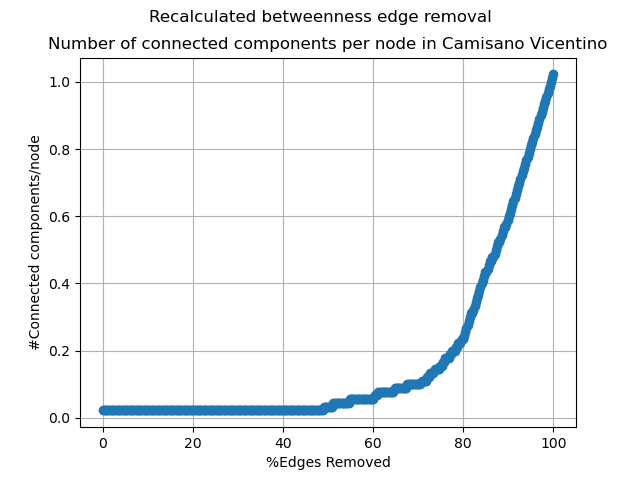
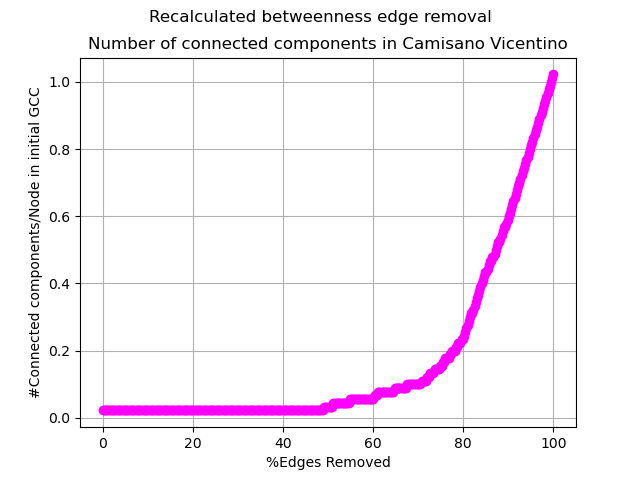
graph things, apl and colours

Changed region(s): [[0.0625, 0.0625, 0.9375, 0.875], [0.0312, 0.1875, 0.0625, 0.8438]]

diff --git a/CSV Data Files/generate_graphs.py b/CSV Data Files/generate_graphs.py
@@ -36,6 +36,7 @@ def size_of_largest_component_graph(df, removal_target, removal_strategy, locali
     )
 
     plt.savefig(f"{images_folder}/size_of_largest_component_{shortform}.png")
+    plt.close()
 
 def number_of_components_graph(df, removal_target, removal_strategy, locality, shortform):
     n_nodes = df['largest_strongly_connected_component_size'][0]
@@ -47,16 +48,38 @@ def number_of_components_graph(df, removal_target, removal_strategy, locality, s
     components = components.apply(lambda x: x/n_nodes)
 
     plt.figure()
-    plt.plot(removed, components, marker='o', linestyle='-')
+    plt.plot(removed, components, marker='o', linestyle='-', color="magenta")
 
     # Add labels and title
     plt.xlabel(f'%{removal_target.capitalize()}s Removed')
-    plt.ylabel('#Connected components/node')
-    plt.title(f'Number of connected components per node in {locality}')
+    plt.ylabel('#Connected components/Node in initial GCC')
+    plt.title(f'Number of connected components in {locality}')
     plt.suptitle(f'{removal_strategy} {removal_target} removal'.capitalize())
     plt.grid(True)
 
     plt.savefig(f"{images_folder}/number_of_connected_components_{shortform}.png")
+    plt.close()
+
+def average_path_length_graph(df, removal_target, removal_strategy, locality, shortform):
+    n_nodes = df['largest_strongly_connected_component_size'][0]
+    removed = df[f'{removal_target}s_removed']
+    apl = df['largest_strongly_connected_component_average_path_length']
+    n_removals = removed[len(removed)-1]
+
+    removed = removed.apply(lambda x: 100*x / n_removals)
+
+    plt.figure()
+    plt.plot(removed, apl, marker='o', linestyle='-', color="orange")
+
+    # Add labels and title
+    plt.xlabel(f'%{removal_target.capitalize()}s Removed')
+    plt.ylabel('APL in the largest connected component')
+    plt.title(f'Average Path Length in {locality}')
+    plt.suptitle(f'{removal_strategy} {removal_target} removal'.capitalize())
+    plt.grid(True)
+
+    plt.savefig(f"{images_folder}/average_path_length_{shortform}.png")
+    plt.close()
 
 def generate_graphs(df, removal_target, removal_strategy, locality):
     print(f"Drawing graphs for: {metrics_folder}/{filename}")
@@ -64,11 +87,12 @@ def generate_graphs(df, removal_target, removal_strategy, locality):
     # let's not make every filename too long
     targ = removal_target[0]
     strat = removal_strategy[0].upper()+"Btn" if "betweenness" in removal_strategy else removal_strategy[0].upper()+removal_strategy[1:4]
-    shortfrom = targ+strat+"_"+locality
+    shortform = targ+strat+"_"+locality
 
-    # generate graphs # TODO uncomment these functions, for now commented so identical graphs aren't regenerated
-    size_of_largest_component_graph(df, removal_target, removal_strategy, locality, shortfrom)
-    number_of_components_graph(df, removal_target, removal_strategy, locality, shortfrom)
+    # generate graphs
+    size_of_largest_component_graph(df, removal_target, removal_strategy, locality, shortform)
+    number_of_components_graph(df, removal_target, removal_strategy, locality, shortform)
+    average_path_length_graph(df, removal_target, removal_strategy, locality, shortform)
 
 for filename in listdir(metrics_folder):
     # take information from file name assumes format <target>_removal_<strategy>_<locality>.csv
